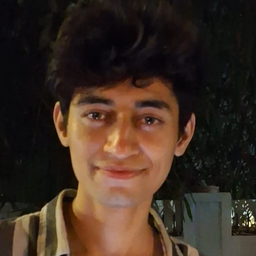
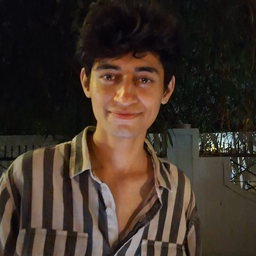
fix: conditionally open external links in new tabs and use native anchor for resume PDF

diff --git a/src/components/home/Profile.tsx b/src/components/home/Profile.tsx
@@ -2,7 +2,6 @@ import Socials from "@/components/Socials";
 import { Button } from "@/components/ui/Button";
 import { FileDown } from "lucide-react";
 import Image from "next/image";
-import Link from "next/link";
 import { Card } from "./Section";
 
 import homeContent from "@/data/home.json";
@@ -46,9 +45,10 @@ export default function Profile({ className }: { className?: string }) {
 
         <div className="mt-auto flex flex-wrap items-center gap-5">
           <Button asChild>
-            <Link href="/resume.pdf" target="_blank">
+            {/* plain <a>: next/link would prefetch the PDF as a page and 404 */}
+            <a href="/resume.pdf" target="_blank">
               Resume <FileDown />
-            </Link>
+            </a>
           </Button>
           <Socials />
         </div>

diff --git a/src/app/contact/page.tsx b/src/app/contact/page.tsx
@@ -33,8 +33,11 @@ export default function ContactPage() {
               <li key={s.name}>
                 <Link
                   href={s.href}
-                  target="_blank"
-                  rel="noreferrer"
+                  // mailto: links in a new tab do nothing in Chrome
+                  {...(s.href.startsWith("http") && {
+                    target: "_blank",
+                    rel: "noreferrer",
+                  })}
                   className="group flex items-center gap-3 px-6 py-4 transition-colors hover:bg-muted/50"
                 >
                   <Icon

diff --git a/src/components/Socials.tsx b/src/components/Socials.tsx
@@ -11,9 +11,12 @@ export default function Socials() {
         <a
           href={item.href}
           key={item.name}
-          target="_blank"
+          // mailto: links in a new tab do nothing in Chrome without a mail handler
+          {...(item.href.startsWith("http") && {
+            target: "_blank",
+            rel: "noopener noreferrer",
+          })}
           className="text-muted-foreground hover:text-foreground"
-          rel="noopener noreferrer"
           title={item.name}
         >
           <span className="sr-only">{item.name}</span>
